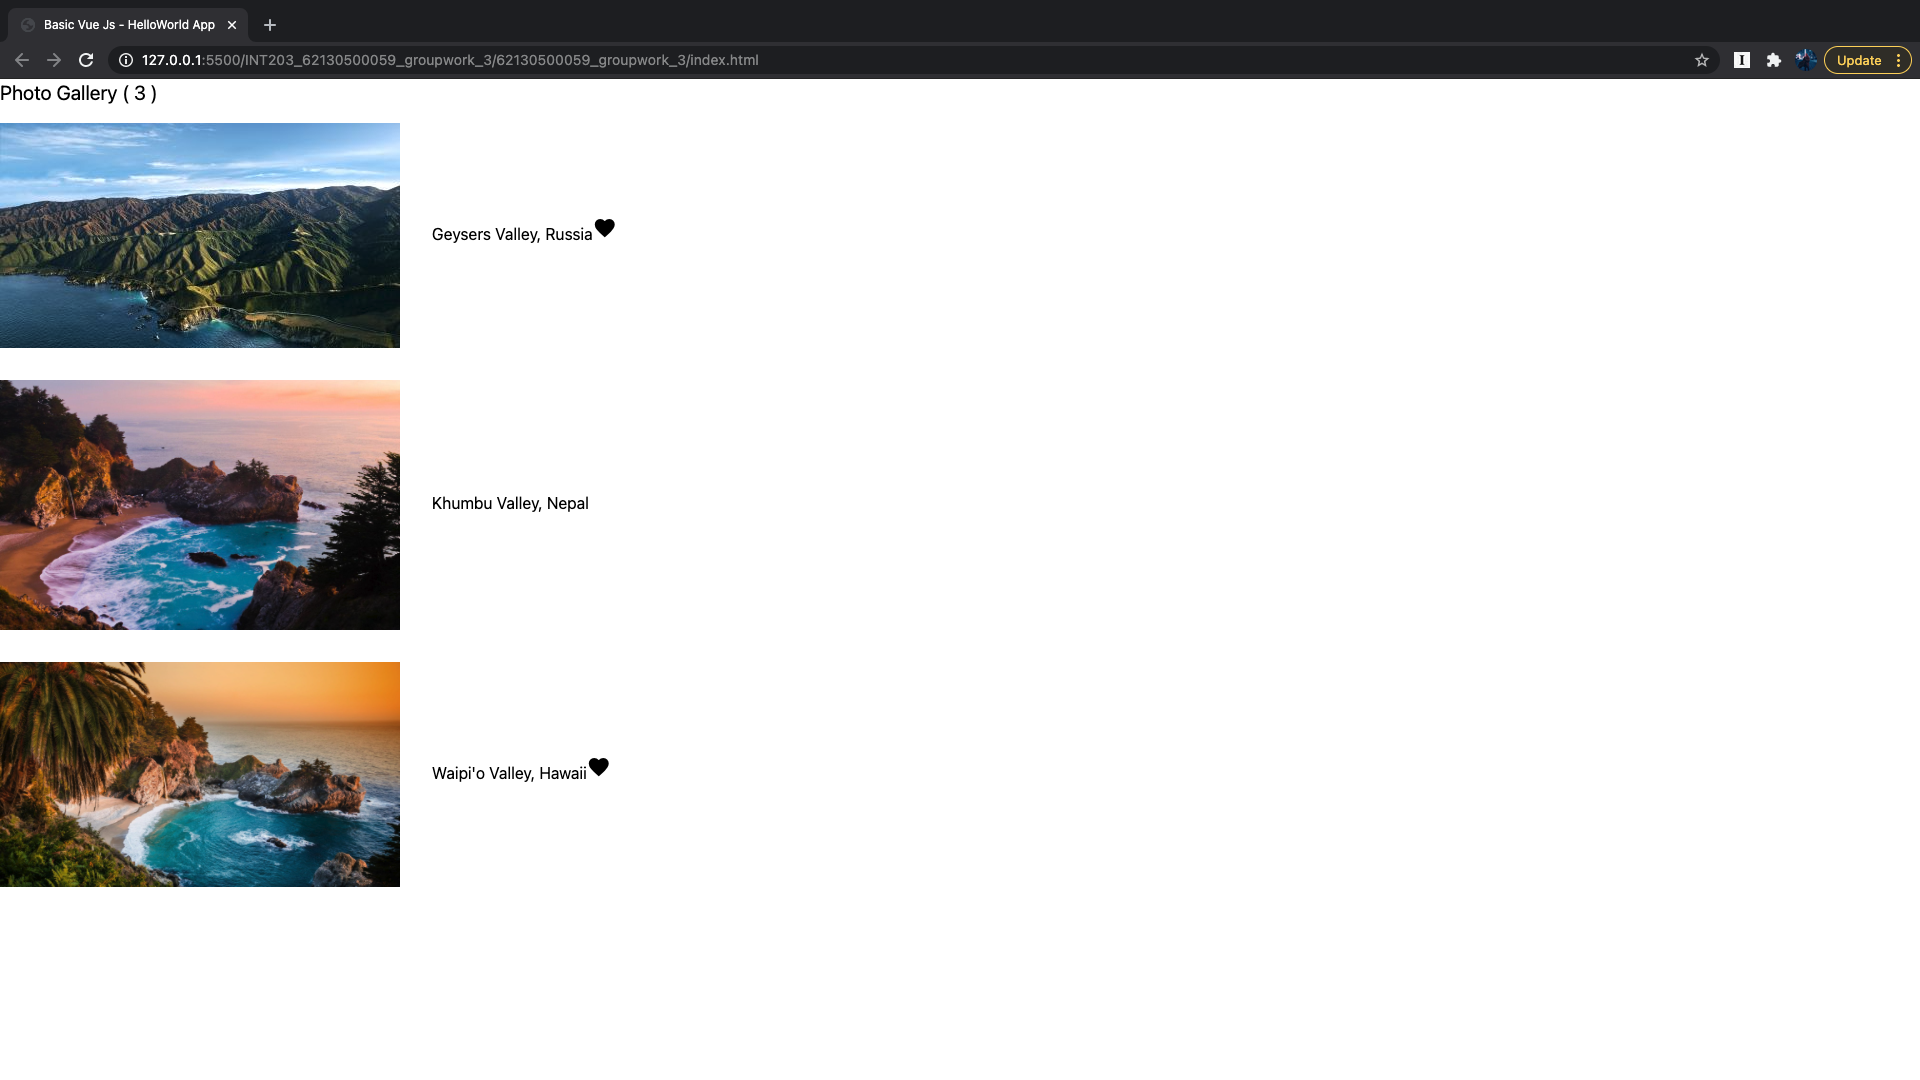
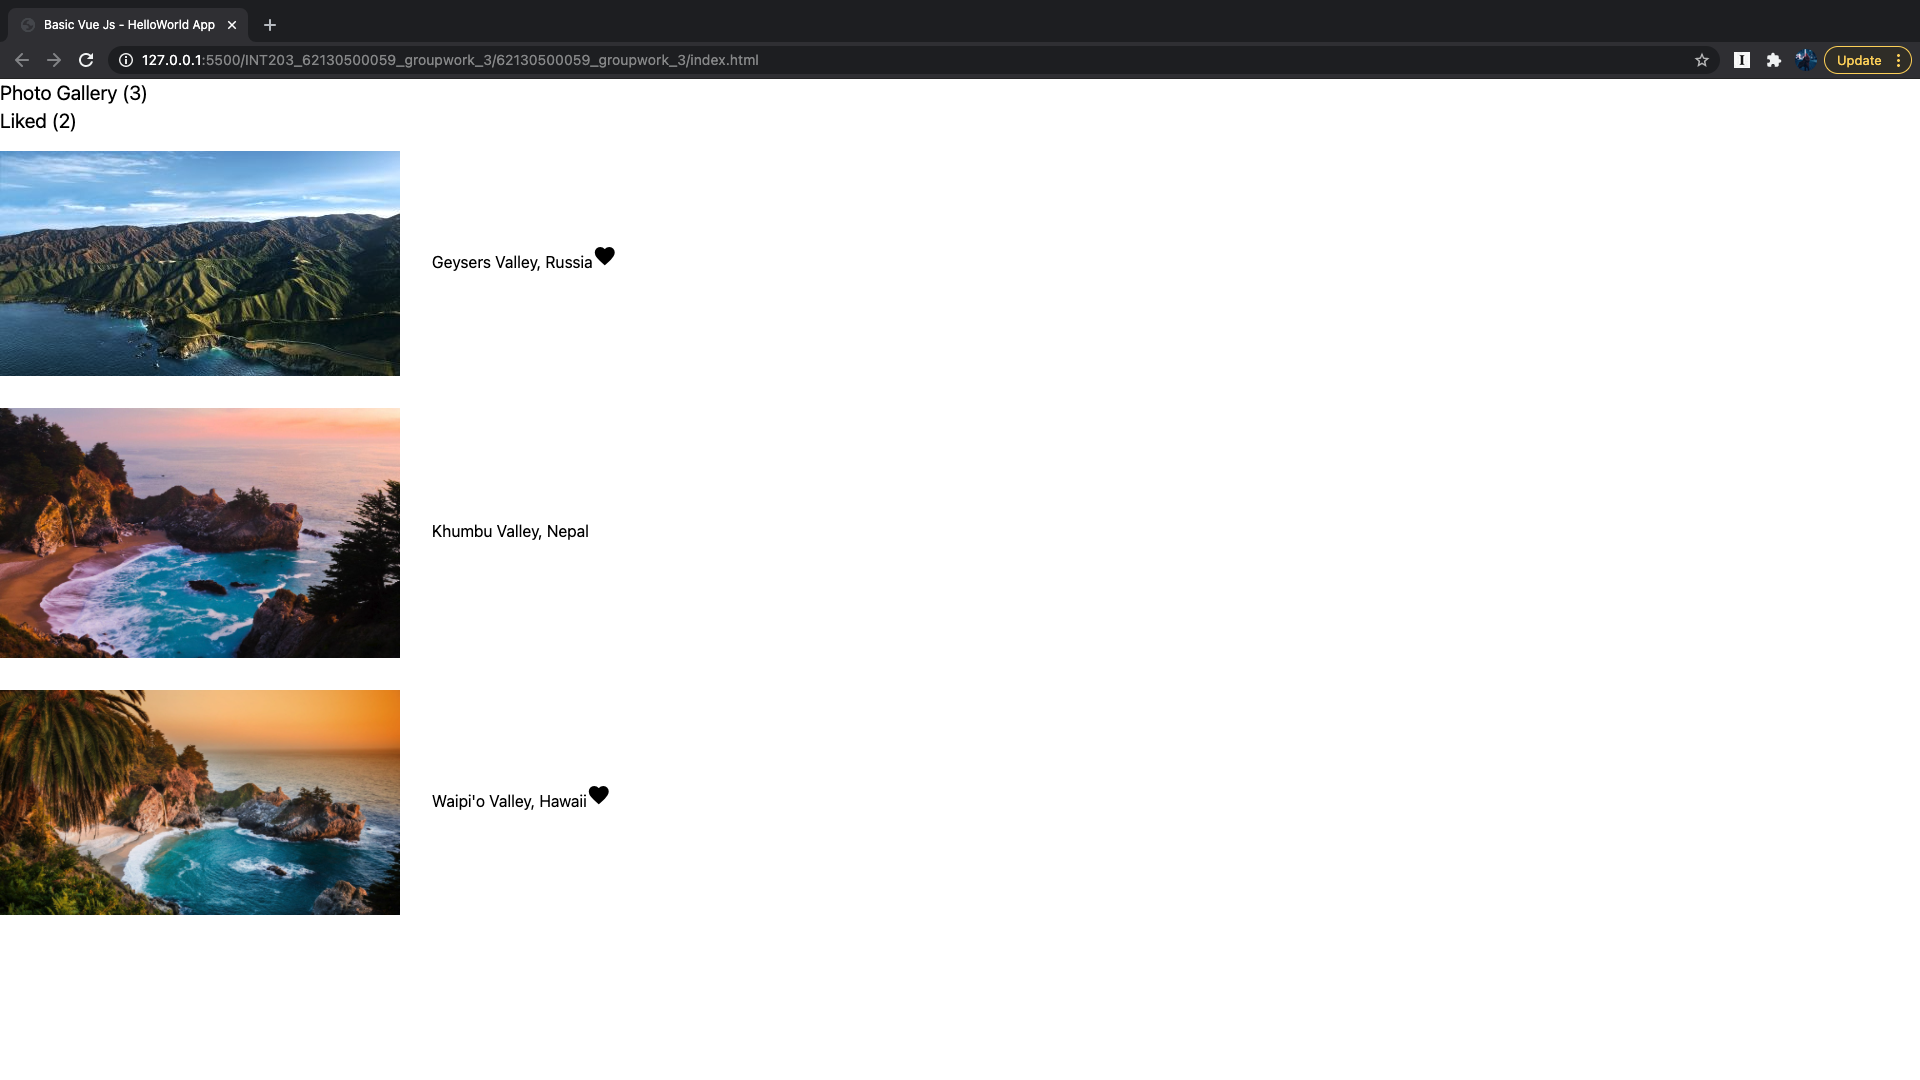
[Added] countHeart() method

Changed region(s): [[0.0, 0.0917, 0.3438, 0.8556]]

diff --git a/62130500059_groupwork_3/index.html b/62130500059_groupwork_3/index.html
@@ -20,7 +20,8 @@
 </head>
 <body>
     <div id="app">
-        <h1 class="text-xl">Photo Gallery ( {{countPhoto}} )</h1>
+        <h1 class="text-xl">Photo Gallery ({{countPhoto}})</h1>
+        <h1 class="text-xl">Liked ({{countHeart}})</h1>
         <ul v-for="(cont, index) in conts">
             <li class="py-4" v-on:click="toggleHeart(index)">
                 <img class="inline" v-bind:src="cont.image" width="400" height="400">

diff --git a/62130500059_groupwork_3/main.js b/62130500059_groupwork_3/main.js
@@ -16,6 +16,9 @@ const app = {
     computed: {
         countPhoto() {
             return this.conts.length
+        },
+        countHeart() {
+            return this.conts.filter( c => c.heart ).length
         }
     }
 }
